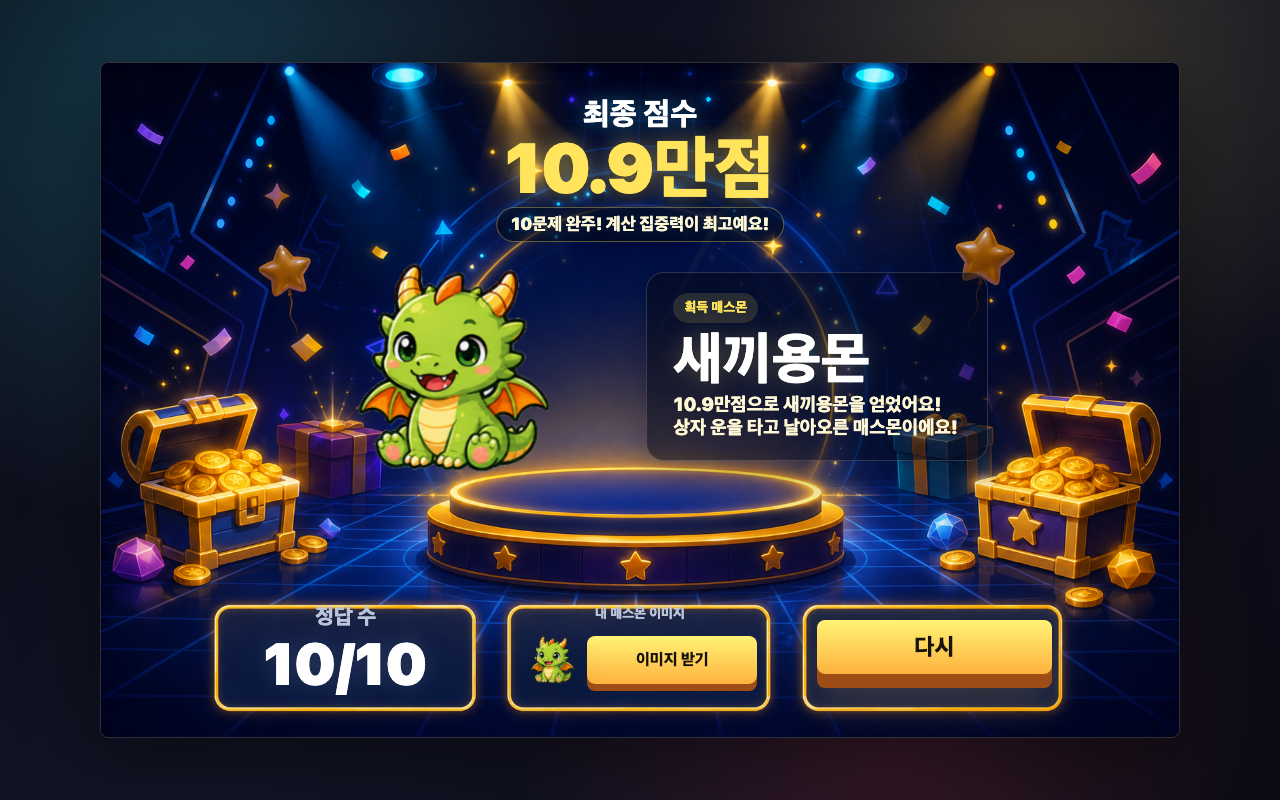
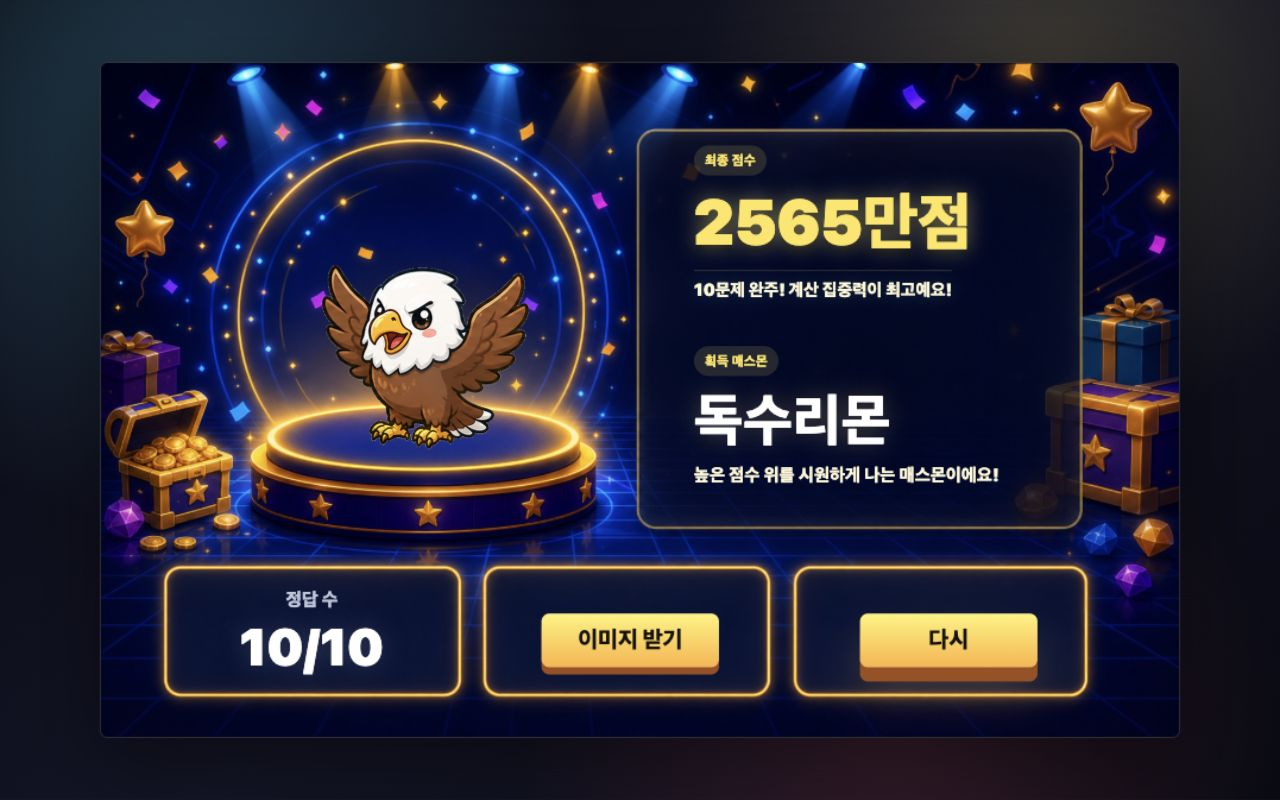
update result screen screenshot

diff --git a/index.html b/index.html
@@ -914,36 +914,43 @@
 
     .result-summary {
       position: absolute;
-      top: 5.2%;
-      left: 50%;
-      width: min(66%, 720px);
-      transform: translateX(-50%);
+      top: 12.2%;
+      left: 55%;
+      width: 31%;
+      transform: none;
       display: grid;
-      justify-items: center;
-      gap: 4px;
+      justify-items: start;
+      gap: 8px;
       padding: 0;
+      text-align: left;
     }
 
     .result-title {
       margin: 0;
-      color: #ffffff;
-      font-size: clamp(1.25rem, 3vw, 1.95rem);
-      line-height: 1;
+      display: inline-flex;
+      align-items: center;
+      min-height: 30px;
+      padding: 6px 11px;
+      border-radius: 999px;
+      background: rgba(255, 228, 92, 0.14);
+      color: var(--yellow);
+      font-size: 0.86rem;
+      line-height: 1.05;
       font-weight: 1000;
-      text-shadow: 0 0 22px rgba(66, 217, 255, 0.42);
+      text-shadow: none;
     }
 
     .final-score {
       min-width: 0;
-      justify-self: center;
+      justify-self: start;
       width: 100%;
       padding: 0;
       border: 0;
       border-radius: 0;
       background: transparent;
       color: var(--yellow);
-      font-size: clamp(2.6rem, 6.3vw, 4.35rem);
-      line-height: 1;
+      font-size: clamp(2.7rem, 5.55vw, 3.95rem);
+      line-height: 1.18;
       font-weight: 1000;
       overflow-wrap: anywhere;
       text-shadow:
@@ -952,40 +959,48 @@
     }
 
     .result-praise {
-      justify-self: center;
-      max-width: min(680px, 100%);
+      justify-self: start;
+      max-width: 100%;
       margin: 0;
-      padding: 5px 14px 6px;
-      border: 1px solid rgba(255, 228, 92, 0.36);
-      border-radius: 999px;
-      background: rgba(5, 8, 22, 0.58);
+      padding: 0;
+      border: 0;
+      border-radius: 0;
+      background: transparent;
       color: var(--ink);
-      font-size: clamp(0.9rem, 1.65vw, 1.08rem);
+      font-size: clamp(0.9rem, 1.55vw, 1.08rem);
       font-weight: 950;
-      line-height: 1.25;
-      text-align: center;
+      line-height: 1.2;
+      text-align: left;
       white-space: normal;
       word-break: keep-all;
       text-shadow: 0 0 18px rgba(66, 217, 255, 0.18);
     }
 
+    .result-praise::before {
+      content: "";
+      display: block;
+      width: 100%;
+      height: 1px;
+      margin: 4px 0 8px;
+      border: 1px solid rgba(255, 228, 92, 0.36);
+      border-width: 1px 0 0;
+      opacity: 0.55;
+    }
+
     .result-mathmon-scene {
       --mathmon-aura: rgba(255, 228, 92, 0.3);
       position: absolute;
-      top: 21%;
-      left: 13%;
-      right: 13%;
-      display: grid;
-      grid-template-columns: minmax(230px, 0.95fr) minmax(0, 1fr);
-      align-items: center;
-      gap: clamp(14px, 3vw, 30px);
-      height: 48%;
-      padding: 0 clamp(24px, 4vw, 54px);
+      top: 0;
+      left: 0;
+      right: 0;
+      bottom: 0;
+      display: block;
+      padding: 0;
       border: 0;
       border-radius: 0;
       background: transparent;
       box-shadow: none;
-      overflow: hidden;
+      overflow: visible;
     }
 
     .result-mathmon-scene::before,
@@ -1013,15 +1028,19 @@
     }
 
     .result-mathmon-stage {
-      position: relative;
+      position: absolute;
+      left: 30%;
+      top: 44.5%;
       z-index: 1;
       display: grid;
       place-items: center;
-      min-height: 100%;
+      width: min(270px, 24%);
+      aspect-ratio: 1;
+      transform: translate(-50%, -50%);
     }
 
     .result-mathmon-sprite {
-      width: min(260px, 100%);
+      width: 100%;
       aspect-ratio: 1;
       border-radius: var(--radius);
       background-size: contain;
@@ -1037,17 +1056,24 @@
       animation: mathmon-prize 820ms cubic-bezier(0.2, 1.4, 0.25, 1) both;
     }
 
+    .result-mathmon-scene.is-revealed .result-mathmon-stage {
+      animation: result-mathmon-float 2.6s ease-in-out 900ms infinite;
+    }
+
     .result-mathmon-info {
-      position: relative;
+      position: absolute;
+      top: 42%;
+      left: 55%;
+      width: 31%;
       z-index: 1;
       display: grid;
       justify-items: start;
       gap: 8px;
-      padding: clamp(12px, 2vw, 20px) clamp(14px, 2.5vw, 26px);
-      border: 1px solid rgba(255, 255, 255, 0.16);
-      border-radius: 18px;
-      background: rgba(3, 7, 22, 0.54);
-      box-shadow: 0 18px 42px rgba(0, 0, 0, 0.24);
+      padding: 0;
+      border: 0;
+      border-radius: 0;
+      background: transparent;
+      box-shadow: none;
       text-align: left;
     }
 
@@ -1065,8 +1091,8 @@
 
     .result-mathmon-info strong {
       color: #ffffff;
-      font-size: clamp(2rem, 5vw, 3.55rem);
-      line-height: 0.95;
+      font-size: clamp(2.25rem, 4.95vw, 3.55rem);
+      line-height: 1.26;
       font-weight: 1000;
       text-shadow: 0 0 24px rgba(255, 228, 92, 0.26);
       white-space: nowrap;
@@ -1075,21 +1101,21 @@
     .result-mathmon-info p {
       margin: 0;
       color: var(--ink);
-      font-size: clamp(0.95rem, 2.05vw, 1.18rem);
-      line-height: 1.25;
+      font-size: clamp(0.94rem, 1.85vw, 1.12rem);
+      line-height: 1.22;
       font-weight: 900;
     }
 
     .result-stats {
       position: absolute;
-      left: 10.5%;
-      right: 10.5%;
-      bottom: 4.7%;
-      height: 17.2%;
+      left: 5.8%;
+      right: 7.6%;
+      bottom: 6.2%;
+      height: 18%;
       display: grid;
       grid-template-columns: 1fr 1fr 1fr;
       align-items: stretch;
-      gap: 3.7%;
+      gap: 2.3%;
       padding: 0;
       border: 0;
       border-radius: 0;
@@ -1101,7 +1127,8 @@
       display: grid;
       gap: 5px;
       min-height: 0;
-      padding: clamp(8px, 1.6vw, 14px);
+      padding: clamp(22px, 2.8vw, 30px) clamp(8px, 1.6vw, 14px) clamp(7px, 1vw, 10px);
+      align-content: center;
       border: 0;
       border-radius: 18px;
       background: transparent;
@@ -1122,39 +1149,46 @@
     }
 
     .result-stat--correct {
+      align-content: center;
       place-items: center;
       text-align: center;
+      transform: translateY(-12px);
     }
 
     .result-stat--correct span {
-      font-size: clamp(1.1rem, 1.7vw, 1.45rem);
+      font-size: clamp(1rem, 1.45vw, 1.22rem);
       font-weight: 1000;
     }
 
     .result-stat--correct strong {
-      font-size: clamp(2.35rem, 5.4vw, 3.65rem);
-      line-height: 0.95;
+      font-size: clamp(2.05rem, 4.75vw, 3.2rem);
+      line-height: 1.16;
       text-shadow: 0 0 24px rgba(255, 255, 255, 0.14);
       white-space: nowrap;
     }
 
     .result-stat--download {
-      grid-template-columns: minmax(58px, 0.35fr) minmax(0, 1fr);
-      align-items: center;
-      text-align: left;
+      grid-template-columns: minmax(0, 1fr);
+      align-content: center;
+      place-items: center;
+      row-gap: 8px;
+      text-align: center;
+      transform: translateY(-4px);
     }
 
     .result-stat--download span {
-      grid-column: 1 / -1;
-      text-align: center;
+      display: none;
     }
 
     .result-stat--restart {
       display: grid;
-      place-items: center;
+      align-content: center;
+      justify-items: center;
+      transform: translateY(-4px);
     }
 
     .download-mathmon {
+      display: none;
       width: min(68px, 100%);
       aspect-ratio: 1;
       justify-self: center;
@@ -1168,11 +1202,13 @@
     .download-button {
       display: inline-grid;
       place-items: center;
-      min-height: 48px;
-      padding: 9px 14px;
+      width: min(220px, 66%);
+      min-height: 54px;
+      padding: 10px 18px;
       border-radius: var(--radius);
       background: linear-gradient(180deg, #fff375, #ffb23e);
       color: #17120a;
+      font-size: clamp(1.15rem, 2.2vw, 1.45rem);
       font-weight: 1000;
       text-decoration: none;
       box-shadow: 0 7px 0 #9f4d17;
@@ -1195,6 +1231,12 @@
       align-self: center;
       padding: 10px 18px;
       font-size: clamp(1.15rem, 2.2vw, 1.45rem);
+    }
+
+    .result-stat--restart .primary-button {
+      width: min(220px, 66%);
+      min-width: 0;
+      margin-top: 0;
     }
 
     .sr-only {
@@ -1256,6 +1298,12 @@
       0% { transform: translateY(28px) scale(0.58) rotate(-8deg); opacity: 0; filter: brightness(1.4); }
       58% { transform: translateY(-10px) scale(1.08) rotate(3deg); opacity: 1; filter: brightness(1.18); }
       100% { transform: translateY(0) scale(1) rotate(0deg); opacity: 1; filter: brightness(1); }
+    }
+
+    @keyframes result-mathmon-float {
+      0%,
+      100% { transform: translate(-50%, -50%) translateY(0); }
+      50% { transform: translate(-50%, -50%) translateY(-12px); }
     }
 
     @keyframes prize-burst {
@@ -1356,18 +1404,6 @@
         font-size: clamp(1.8rem, 10vw, 3rem);
       }
 
-      .result-mathmon-scene {
-        grid-template-columns: minmax(150px, 0.75fr) minmax(0, 1fr);
-        min-height: 210px;
-      }
-
-      .result-mathmon-stage {
-        min-height: 170px;
-      }
-
-      .result-mathmon-sprite {
-        width: min(170px, 100%);
-      }
     }
 
     @media (max-width: 719px) {
@@ -1493,7 +1529,7 @@
     </section>
 
     <section class="screen result" data-screen="result" aria-labelledby="resultTitle">
-      <img class="result-art" src="result-generated.png?v=1" alt="" aria-hidden="true">
+      <img class="result-art" src="result-generated-v2.png?v=1" alt="" aria-hidden="true">
       <div class="result-card">
         <div class="result-summary">
           <h2 class="result-title" id="resultTitle">최종 점수</h2>
@@ -1963,10 +1999,7 @@
         els.resultMathmon.style.setProperty("--mathmon-aura", mathmon.aura);
         els.resultMathmonSprite.style.backgroundImage = `url("${mathmon.asset}")`;
         els.finalMathmonName.textContent = mathmon.name;
-        els.finalMathmonCopy.textContent = "";
-        els.finalMathmonCopy.append(`${formatScore(state.score, true)}으로 ${mathmon.name}을 얻었어요!`);
-        els.finalMathmonCopy.append(document.createElement("br"));
-        els.finalMathmonCopy.append(mathmon.copy);
+        els.finalMathmonCopy.textContent = mathmon.copy;
         els.downloadMathmon.style.backgroundImage = `url("${mathmon.asset}")`;
         els.downloadMathmonLink.setAttribute("aria-label", `${mathmon.name} 이미지 받기`);
         prepareMathmonDownload(mathmon);

diff --git a/REPORT.md b/REPORT.md
@@ -84,7 +84,7 @@
 
 ![최종 결과](screenshots/08-final-result.png)
 
-최종 결과는 이미지 생성으로 만든 시상식 무대를 배경으로 사용합니다. 최종 점수, 칭찬 문구, 획득 매스몬, 정답 수, 이미지 받기, 다시 버튼은 HTML로 올려 매 판 달라지는 결과값이 정확하게 보이도록 했습니다. 매스몬은 점수만이 아니라 정답 수 조건도 함께 봅니다.
+최종 결과는 이미지 생성으로 만든 RasterStage 시상식 무대를 배경으로 사용합니다. 무대를 왼쪽으로 치우치게 두고 매스몬을 그 무대 중앙에 올린 뒤, 최종 점수, 칭찬 문구, 획득 매스몬 설명, 정답 수, 이미지 받기, 다시 버튼은 HTML로 올려 매 판 달라지는 결과값이 정확하게 보이도록 했습니다. 매스몬은 점수만이 아니라 정답 수 조건도 함께 봅니다.
 
 ### 이미지 받기
 
@@ -124,7 +124,7 @@
 
 - `index.html`
 - `cover-generated.png`
-- `result-generated.png`
+- `result-generated-v2.png`
 - `eduitit-logo-mark.png`
 - `mathmon-0-almon.png` ~ `mathmon-9-kingdragonmon.png`
 - `screenshots/*.png`

diff --git a/README.md b/README.md
@@ -28,7 +28,7 @@
 
 - `index.html`: 게임 본문
 - `cover-generated.png`: 첫 화면 대표 커버 이미지
-- `result-generated.png`: 최종 결과 무대 배경 이미지
+- `result-generated-v2.png`: 최종 결과 RasterStage 배경 이미지
 - `mathmon-*.png`: 최종 점수로 얻는 매스몬 이미지
 - `eduitit-logo-mark.png`: 첫 화면 브랜딩 로고
 - `screenshots/`: 화면별 스크린샷과 다운로드 카드 예시